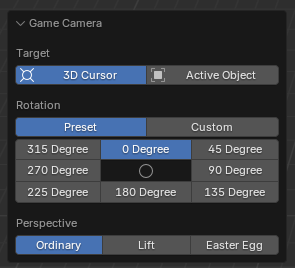
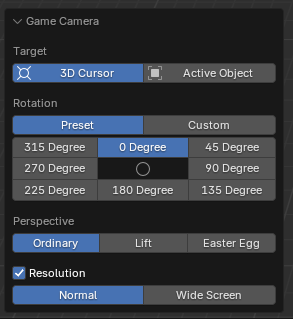
doc: update zh-cn doc

diff --git a/docs/docs/zh-cn/compile-distribute-plugin.md b/docs/docs/zh-cn/compile-distribute-plugin.md
@@ -6,7 +6,7 @@
 
 BBP的Virtools文件原生导入导出功能依赖BMap以及其Python绑定pybmap来实现。为了分发插件，我们需要首先编译BMap及其前置LibCmo。而在编译前，你需要先确认你需要的BMap版本。因为BBP并不总是使用最新的BMap，例如你正在编译一个旧版的BBP，其显然不可能依赖最新的BMap。BMap也在不断升级中，其提供的功能也在不断变化，不同版本的BMap是不兼容的。BBP通常会在发布时写明其所用的BMap版本，如果BBP没有指出，你可能需要寻找与BBP发布时最近的BMap版本来编译。
 
-在明确版本后，你需要访问[LibCmo位于GitHub的存储库](https://github.com/yyc12345/libcmo21)。然后克隆项目，使用Git命令转到对应版本（或者直接下载对应版本的源码）。然后按照LibCmo的编译手册编译得到BMap。在Windows上，你通常会得到`BMap.dll`和`BMap.pdb`这两个文件。而在Linux上，则会是`BMap.so`。
+在明确版本后，你需要访问[LibCmo位于GitHub的存储库](https://github.com/yyc12345/libcmo21)。然后克隆项目，使用Git命令转到对应版本（或者直接下载对应版本的源码）。然后按照LibCmo的编译手册编译得到BMap。在Windows上，你通常会得到`BMap.dll`文件。而在Linux上，则会是`BMap.so`。
 
 然后我们需要配置pybmap。pybmap是随LibCmo一起提供的。请按照pybmap的手册，将编译得到的二进制BMap库，和pybmap结合在一起。即完成pybmap配置。
 

diff --git a/docs/docs/zh-cn/zzq-features.md b/docs/docs/zh-cn/zzq-features.md
@@ -34,4 +34,6 @@
 
 然后是选择摄像机的旋转角度。我们提供了8种游戏内预设角度，分别对应90度和45度的各4种。此外如果这些预设角度不能满足你的需求，你还可以设置自定义角度。
 
-最后是选择摄像机视角，分为Ordinary（常规视角），Lift（按住空格键的视角）和Easter Egg（彩蛋视角）三种。
+接着是选择摄像机视角，分为Ordinary（常规视角），Lift（按住空格键的视角）和Easter Egg（彩蛋视角）三种。
+
+最后是分辨率选项，可以在Normal（正常游戏视角）和Wide Screen（加入宽屏补丁后的视角）之间进行选择。通常来说，选择正常游戏视角即可，无需针对宽屏进行特殊配置。此外如果不勾选分辨率这个选项，则不会修改当前选择摄像机的分辨率，由于Blender与Virtools摄像机的实现差异，也因此不会修改Blender渲染窗口的大小。有关该行为可参考[Virtools属性](./virtools-properties.md)页面的的Virtools摄像机章节。
